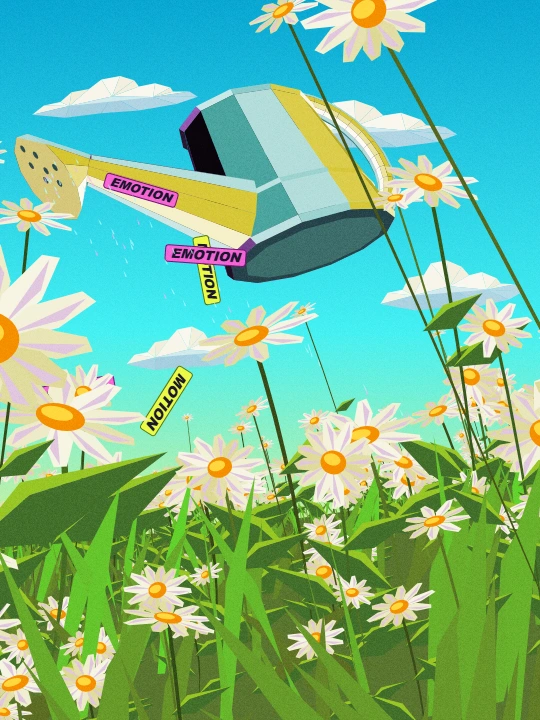
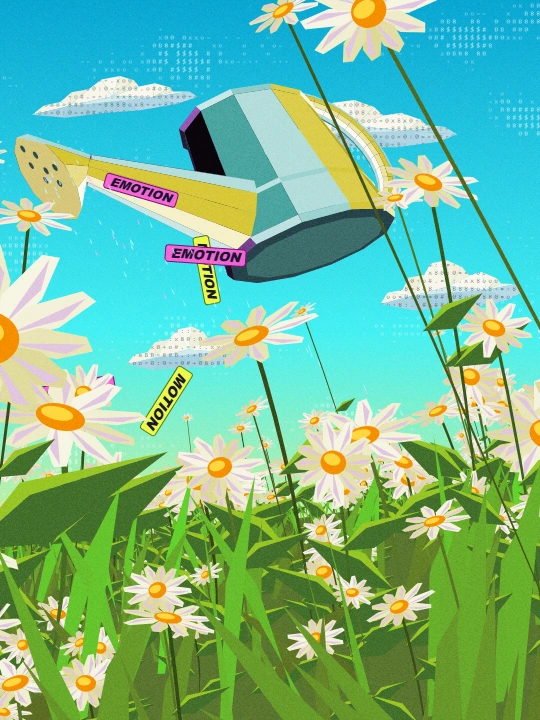
Texture Rocío's turquoise sky and clouds with animated ASCII

diff --git a/public/tools/rocio/scene.js b/public/tools/rocio/scene.js
@@ -47,6 +47,28 @@ for (let i=0; i<pixels.data.length; i+=4) {
 }
 noiseCtx.putImageData(pixels,0,0)
 const posterTexture = new WeakMap()
+// Tramas neutras: la luz de los glifos conserva el tono elegido para el cielo.
+function asciiLayer(cloud) {
+  const tile=document.createElement('canvas')
+  tile.width=cloud ? 240 : 1440
+  tile.height=cloud ? 144 : 1536
+  const ink=tile.getContext('2d'), randomGlyph=seeded(cloud?620:207)
+  const alphabet='.:+=ox0B8#$'
+  ink.font='bold 13px monospace'
+  for(let y=0;y<tile.height;y+=16) {
+    for(let x=0;x<tile.width;x+=12) {
+      const wave=sin(x*.011+sin(y*.012)*2)+cos(y*.033+x*.003)+.45*sin(x*.032-y*.023)
+      const density=Math.min(1,Math.max(0,(wave-.15)*.55))
+      const pick=randomGlyph()
+      if(!cloud && pick>.09+density*.85) continue
+      const value=cloud ? pick : density
+      ink.fillStyle=cloud ? 'rgba(0,0,0,.33)' : 'rgba(255,255,255,'+(.15+.4*density)+')'
+      ink.fillText(alphabet[Math.floor(value*(alphabet.length-1))],x,y+13)
+    }
+  }
+  return tile
+}
+const skyGlyphs=asciiLayer(false), cloudGlyphs=asciiLayer(true)
 
 export function render(ctx, phase, p) {
   const W = 1080, H = 1440, t = phase * TAU
@@ -60,6 +82,7 @@ export function render(ctx, phase, p) {
   gradient.addColorStop(1,color(87,55,22))
   ctx.fillStyle = gradient
   ctx.fillRect(0,0,W,H)
+  ctx.drawImage(skyGlyphs,-175+18*sin(t),-36+6*cos(t))
   const roll = p.angle*Math.PI/180
   const pitch = p.pitch*Math.PI/180
   ctx.translate(540,0)
@@ -137,6 +160,17 @@ export function render(ctx, phase, p) {
       polygon([edge[i],edge[j],centers[right],centers[left]],color(i<12?49:197,48,light))
     }
     polygon(centers,color(190,45,88))
+    ctx.save()
+    ctx.beginPath()
+    edge.forEach(([px,py],i)=>i ? ctx.lineTo(px,py) : ctx.moveTo(px,py))
+    ctx.closePath()
+    ctx.clip()
+    const minX=Math.min(...edge.map(v=>v[0])), minY=Math.min(...edge.map(v=>v[1]))
+    const width=Math.max(...edge.map(v=>v[0]))-minX, height=Math.max(...edge.map(v=>v[1]))-minY
+    ctx.translate(minX,minY)
+    ctx.fillStyle=ctx.createPattern(cloudGlyphs,'repeat')
+    ctx.fillRect(0,0,width,height)
+    ctx.restore()
   }
   // La tierra sigue el mismo horizonte curvo que las raíces.
   const horizon=Array.from({length:45},(_,i)=>project([(i-22)*1.4,-.25,12+cos(i*.38)]))
